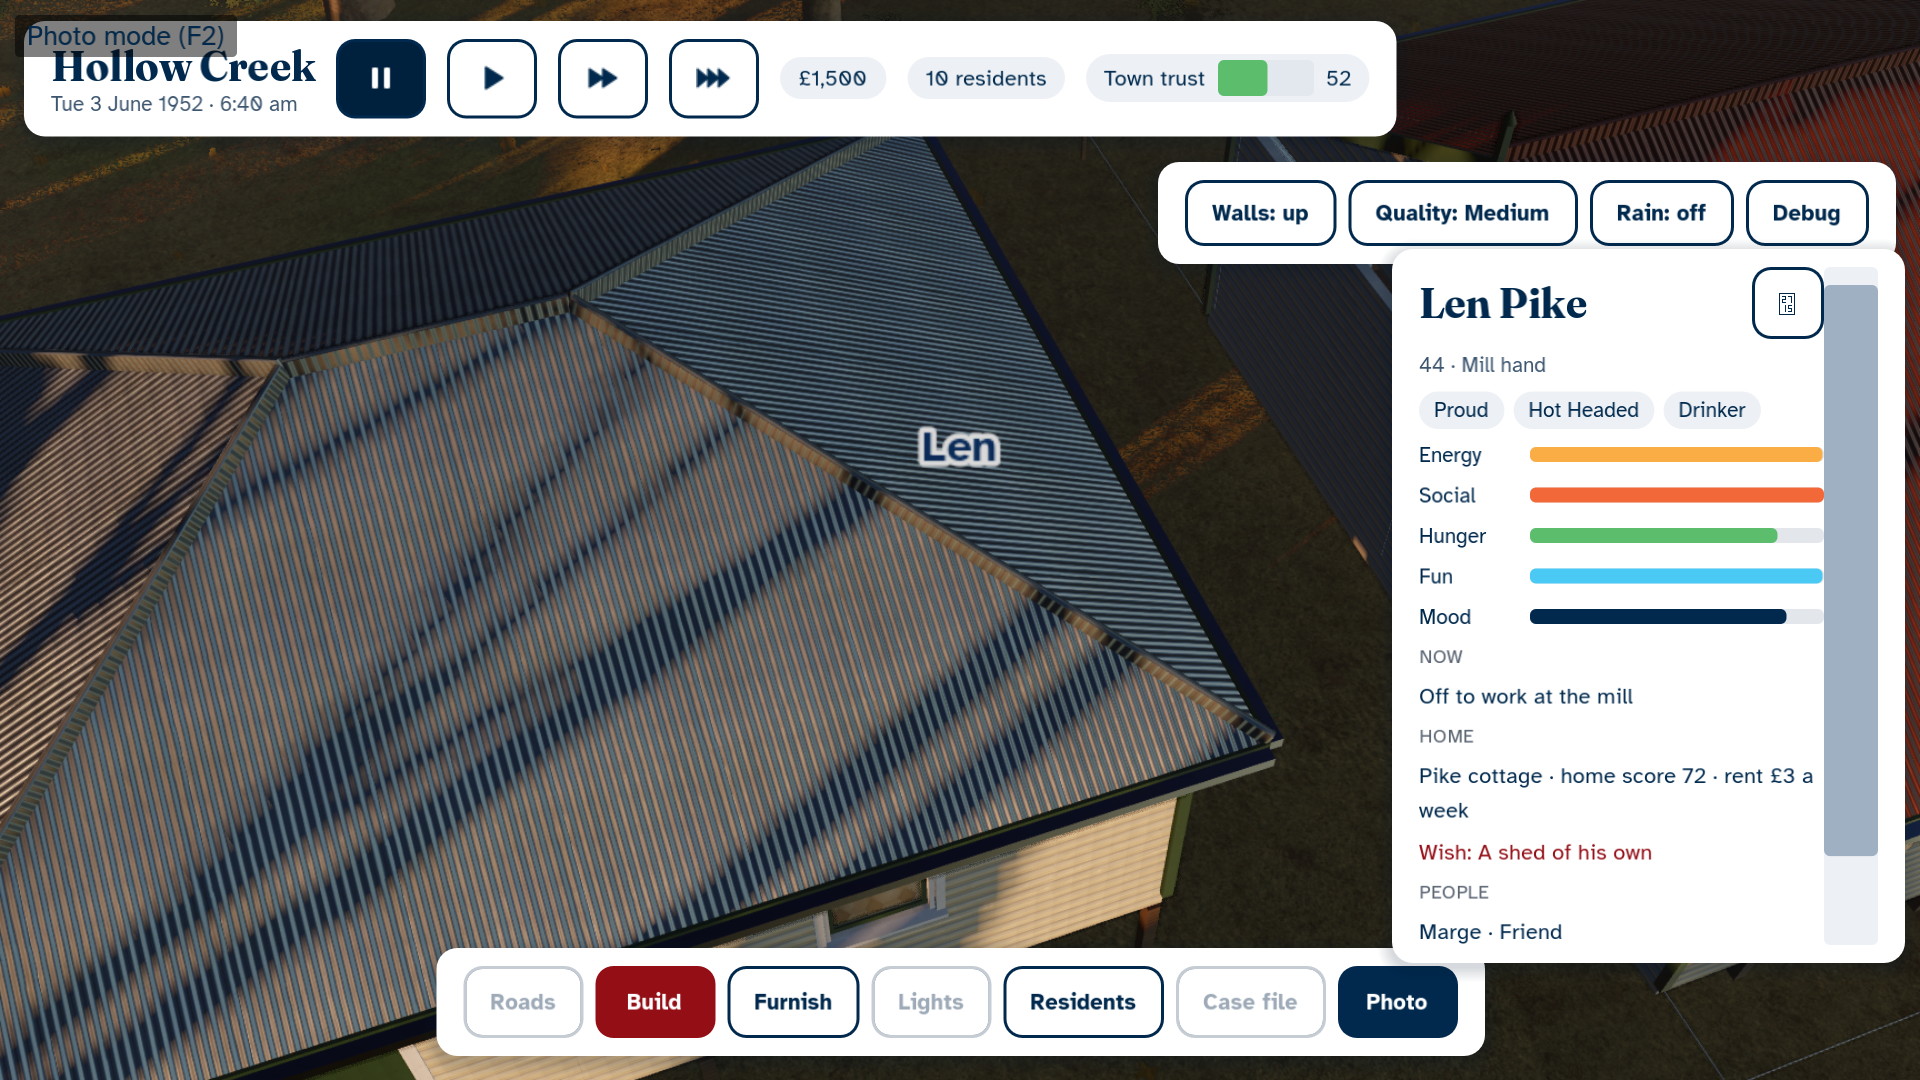
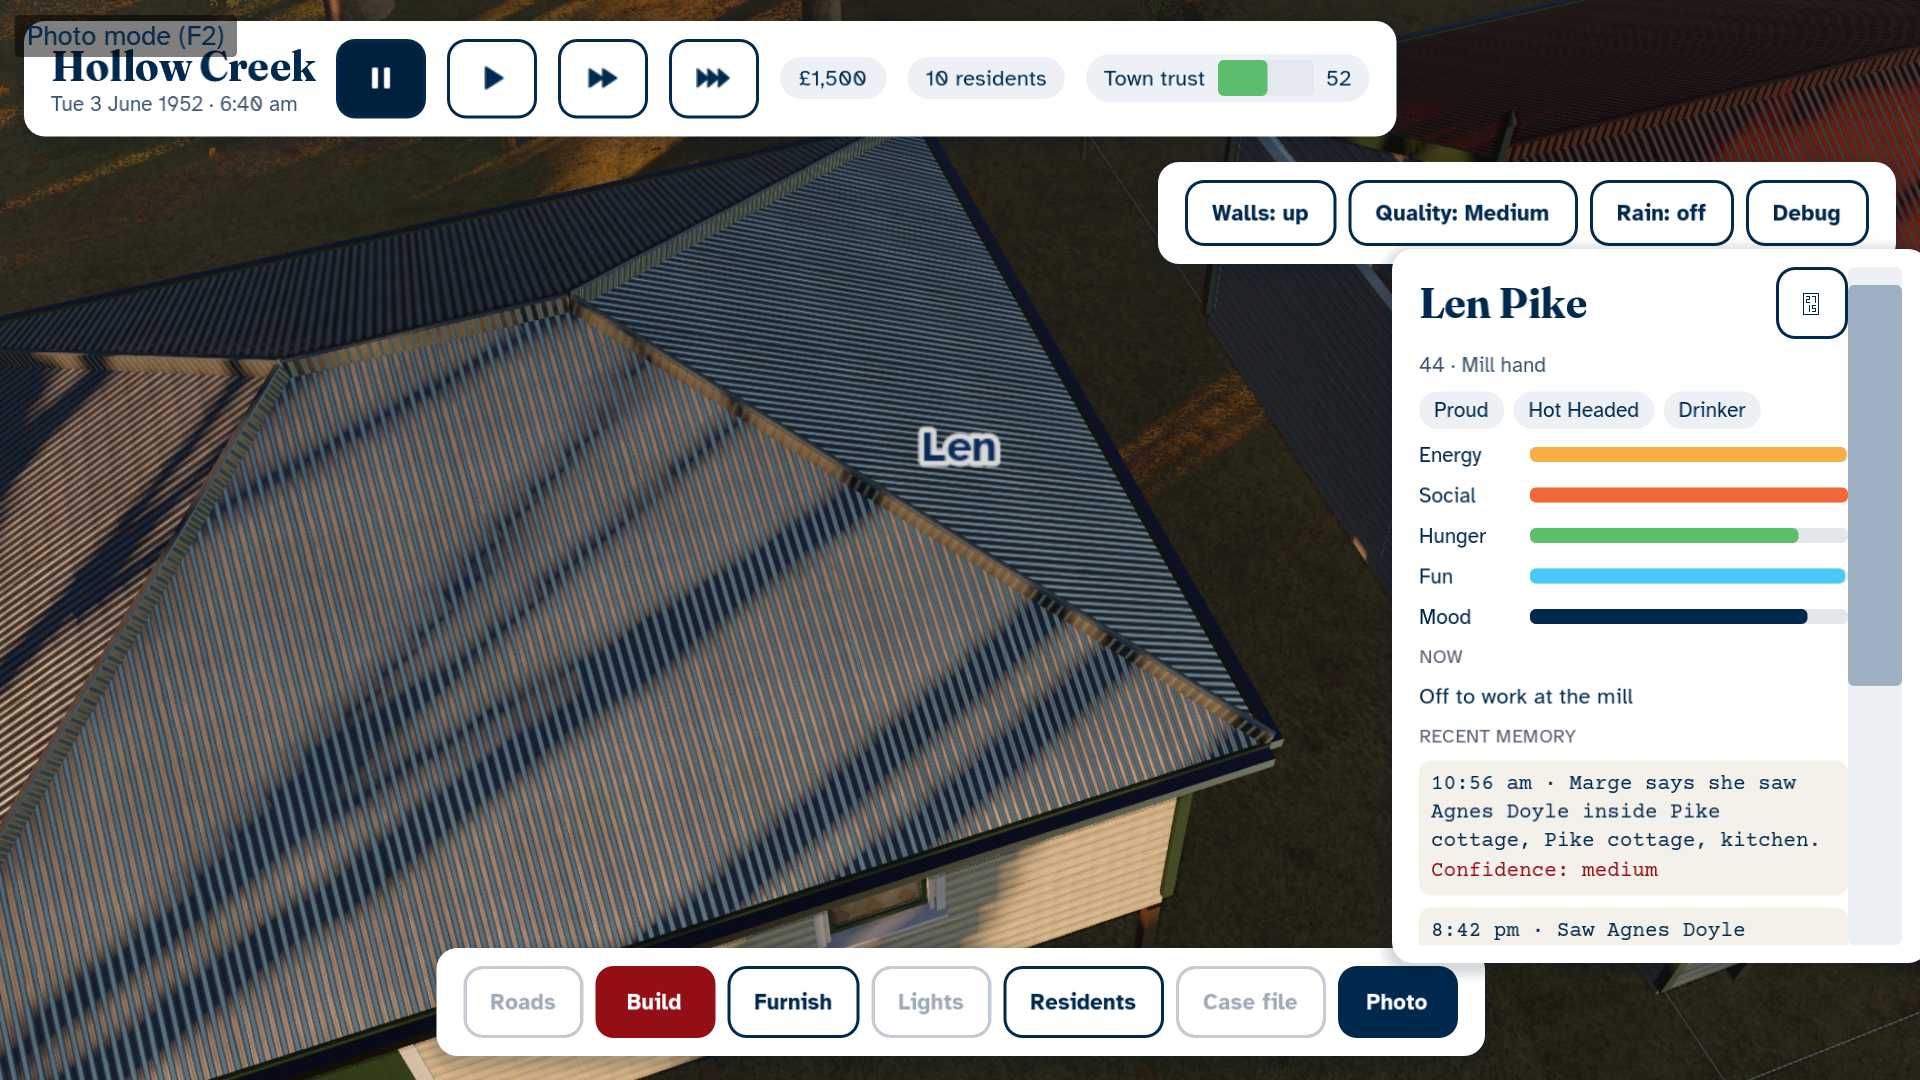
M5: browser run finished (20 of 20, 7 screenshots, no console errors)
Claude-Session: https://claude.ai/code/session_011Y8R672ZNqgaib3HuP7Er8

Changed region(s): [[0.7188, 0.2139, 1.0, 0.8861], [0.75, 0.8556, 0.9062, 0.8861]]

diff --git a/docs/PROGRESS.md b/docs/PROGRESS.md
@@ -4,9 +4,9 @@ Newest milestone first. Build sizes are raw bytes, with gzip -9 in brackets.
 
 ## M6 - Light, sightlines and memories (in progress)
 
-Core done: light grid, sight map, memories, noises, gossip, bootprints, records, debug overlays, night demo (11 of 12 headless). 168 GUT tests pass. Status and next steps in `docs/HANDOVER.md`.
+Core done: light grid, sight map, memories, noises, gossip, bootprints, records, debug overlays, night demo (12 of 12 headless). 168 GUT tests pass. Browser run and write-up still to do; see `docs/HANDOVER.md`.
 
-## M5 - Residents (done, browser run to finish)
+## M5 - Residents (done)
 
 **What works**
 - **Simulation (`scripts/sim/`):** deterministic, plain classes, all randomness from `SimRng`.
@@ -57,7 +57,7 @@ Core done: light grid, sight map, memories, noises, gossip, bootprints, records,
 | index.pck | 34,616,200 | 28,066,461 |
 | **First download** | | **about 38.2 MB** (budget 40 MB) |
 
-**Browser run:** unfinished at handover. 6 of 7 screenshots are in `docs/screens/m5/` with every check passing so far and no console errors; re-run to finish (`docs/HANDOVER.md`). The web smoke test passed with no console errors (`docs/screens/smoke-2026-10-17T10-30-28-065Z.png`).
+**Browser run:** `node tools/look_test.mjs --scene residents_demo --out docs/screens/m5 --dpr 1.5` passed 20 of 20 checks in headless Chromium (SwiftShader) with no console errors. Seven screenshots are in `docs/screens/m5/` (`m5_01_agnes` to `m5_07_marge`). It takes about 25 minutes. The web smoke test is still to run.
 
 **Performance** (headless desktop): a game hour of all ten residents (60 ticks) takes about 0.2 to 0.3 ms per tick batch; building the town's walk graph takes a fraction of a second. Agnes adds one skinned mesh of 9,000 triangles at Medium.
 
